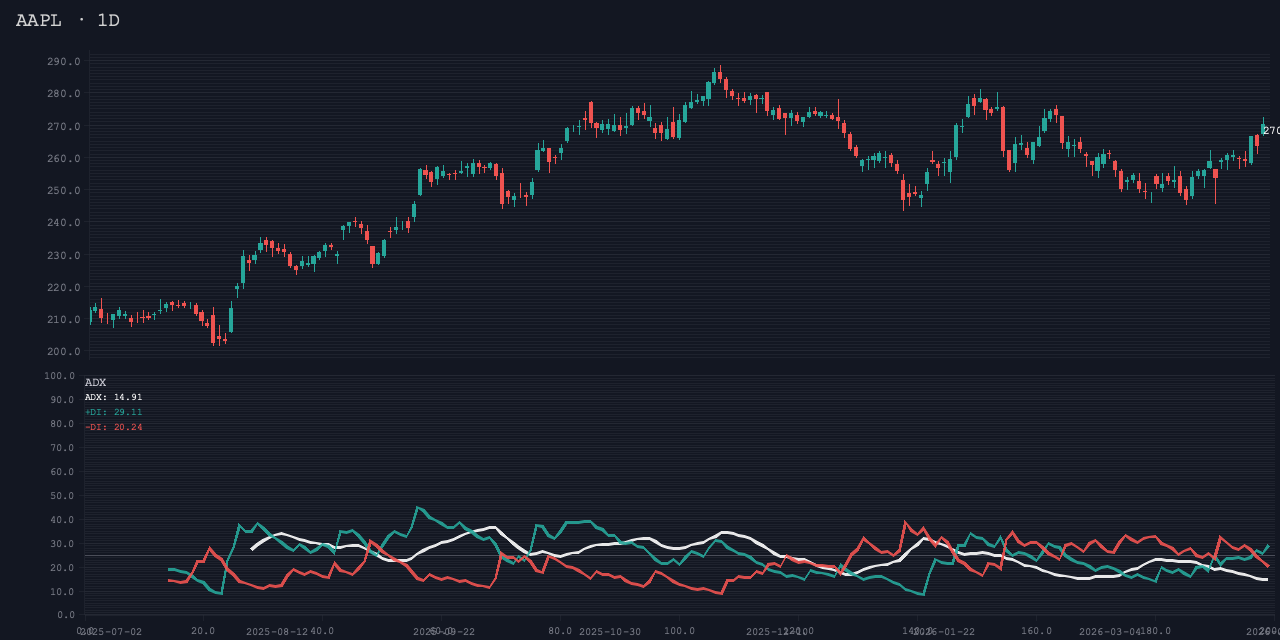
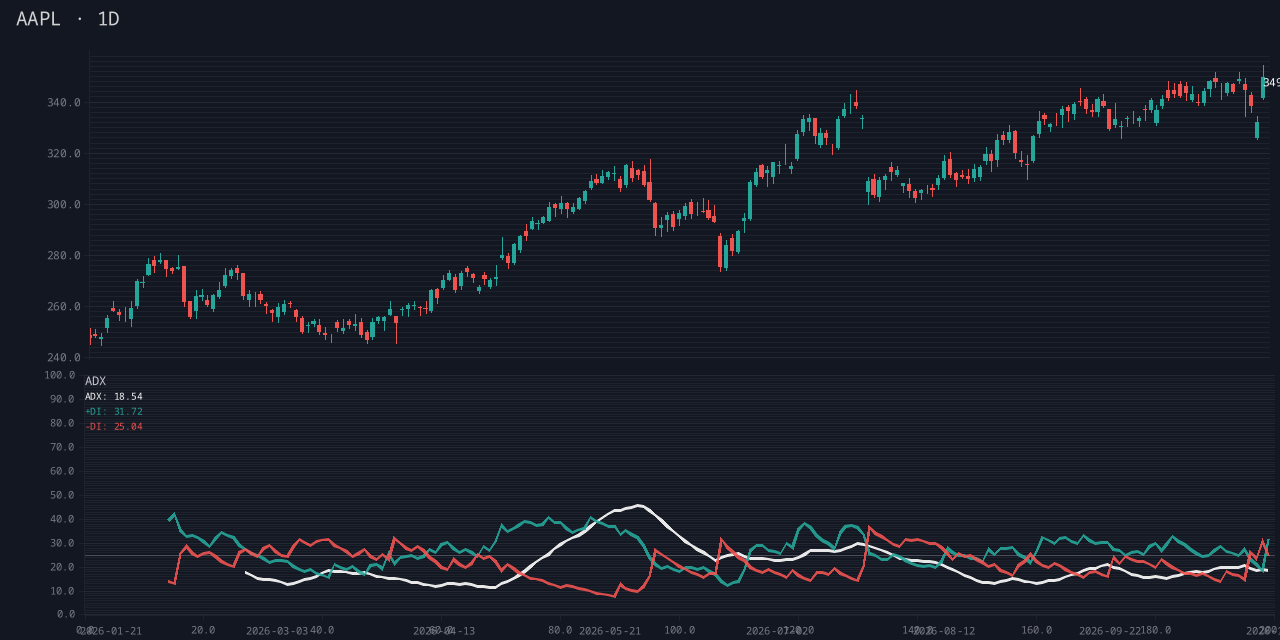
docs: ADR-0018 Pine semantics, TradingView parity note, screenshots
- ADR-0018 (MADR 3.0): Pine v5 is the reference, the NaN rule, the
  `ta` crate is dropped, values change for existing users.
- Indicator reference: "Values match TradingView" section with the
  remaining known differences (generated by gen_docs).
- Regenerated screenshots for every indicator whose values changed;
  kalman_volume renders 500 bars since it needs ~280 bars of warmup.
- README: pine.rs / ta_bridge.rs descriptions.

diff --git a/examples/gen_docs.rs b/examples/gen_docs.rs
@@ -46,6 +46,40 @@ fn main() {
          the `generate_chart` MCP tool's `indicators` parameter. Screenshots are\n\
          rendered from `AAPL` daily data (overlays and panels) and `BTCUSDT` daily\n\
          data (external) — regenerate with `./scripts/gen_screenshots.sh`.\n\
+         \n\
+         ## Values match TradingView\n\
+         \n\
+         Indicator math follows Pine Script v5 semantics, implemented once in\n\
+         `src/indicators/pine.rs` ([ADR-0018](/chartgen/decisions/0018-pine-semantics-for-indicators/)).\n\
+         `ta.ema` and `ta.rma` seed with the SMA of the first `length` values. RSI, ATR\n\
+         and DMI/ADX use Wilder's RMA. Bollinger Bands use the population standard\n\
+         deviation. Bars before an indicator has a full window are `null` (NaN), not\n\
+         partial values. With the same parameters and the same first bar, the values\n\
+         equal TradingView's built-ins. The community composites (`cipher_b`,\n\
+         `wavetrend`, `rsi_mfi_stoch`, `kalman_volume`) follow the Pine semantics of\n\
+         the `ta.*` calls in the scripts they port.\n\
+         \n\
+         EMA and RMA are recursive, so a value depends on where the series starts.\n\
+         Load enough history before the bars you compare (`warmup` in series mode)\n\
+         so the start-up effect has decayed. Known differences:\n\
+         \n\
+         - **Defaults.** Some defaults differ from TradingView's: `keltner` uses 20 / 1.5\n\
+         \x20 with the ATR length equal to `period` (TV: multiplier 2, ATR length 10);\n\
+         \x20 `stoch` smooths %K over 3 bars (TV: 1); `roc` uses 14 (TV: 9); `histvol` uses\n\
+         \x20 20 (TV: 10); `vwap_bands` uses 2 standard deviations (TV: 1); `wavetrend`\n\
+         \x20 uses the Cipher B lengths 9 / 12 / 3 (LazyBear: 10 / 21 / 4). Set the same\n\
+         \x20 parameters on both sides to compare.\n\
+         - **Anchoring.** `vwap` and `vwap_bands` accumulate from the first loaded bar\n\
+         \x20 (TV resets every session). `pivot` uses the previous bar (TV uses the\n\
+         \x20 previous higher-timeframe period).\n\
+         - **Ichimoku.** The leading spans are shifted 25 bars forward like TV's, but\n\
+         \x20 the 25 projected future bars are not drawn, and there is no lagging span.\n\
+         - **Intrabar data.** The volume profiles (`volume_profile`, `session_vp`,\n\
+         \x20 `hvn_lvn`, `naked_poc`, `tpo`) and `cvd` spread each bar's volume over its\n\
+         \x20 range. TradingView builds them from lower-timeframe data, so they are\n\
+         \x20 approximations.\n\
+         - **Long warmups.** `kalman_volume` normalises by a 200-bar standard deviation\n\
+         \x20 and needs about 280 bars before its first value.\n\
          \n",
     );
 

diff --git a/website/src/content/docs/decisions/0018-pine-semantics-for-indicators.md b/website/src/content/docs/decisions/0018-pine-semantics-for-indicators.md
@@ -1,0 +1,116 @@
+---
+title: "0018 — Pine v5 semantics for indicator math"
+description: "Compute every built-in indicator with TradingView Pine Script v5 semantics from one helper module, and drop the ta crate."
+sidebar:
+  order: 18
+---
+
+**Status:** Accepted
+**Date:** 2026-11-05
+
+## Context and Problem Statement
+
+chartgen is used next to TradingView, and users compare the numbers. The
+original indicators were built on the [`ta`](https://crates.io/crates/ta)
+crate (0.5) and on small local helpers. Their seeding and smoothing differ
+from Pine Script v5, so values visibly disagree with TradingView:
+
+- `ta` EMAs seed with the first value and output from bar 0. `ta.ema` in
+  Pine seeds with the SMA of the first `length` values and is `na` before.
+- `ta`'s RSI smooths gains and losses with an EMA (alpha `2/(n+1)`) seeded
+  with 0.1. Pine's `ta.rsi` uses Wilder's RMA (alpha `1/n`). The gap lasts
+  for hundreds of bars.
+- `ta`'s ATR is an EMA of the true range, and Keltner, Supertrend and the
+  slow stochastic build on those EMAs. Pine uses `ta.rma` for ATR and
+  `ta.sma` for the stochastic.
+- `ta`'s SMA, Bollinger Bands, CCI and ROC emit partial-window values from
+  bar 0. Its CCI takes the mean deviation of the close instead of hlc3.
+- The local HMA rounded `sqrt(len)`, where `ta.hma` floors it. A local
+  stdev dropped NaNs. The ADX seeded its DX average one bar late.
+
+The TradingView-parity indicators added later (`trend.rs`,
+`oscillators.rs`) already use `src/indicators/pine.rs`, a shared module of
+Pine semantics. The built-ins did not, so the codebase had two
+conventions.
+
+## Decision Drivers
+
+- Values should equal TradingView's for the same parameters and history.
+- One implementation of each primitive (`ema`, `rma`, `stdev`, `atr`, ...)
+  so a fix lands everywhere.
+- Indicator output shape (lines, labels, colors, hlines, `y_range`) and the
+  MCP surface stay unchanged.
+- Fewer dependencies where the crate adds nothing.
+
+## Considered Options
+
+1. **Keep `ta` and patch around it** (pre-seed, mask warmup). Its RSI,
+   ATR and CCI formulas differ in kind, not only in seeding, so most
+   indicators would still need their own code.
+2. **Port every built-in onto `pine.rs` and drop `ta` (chosen).**
+3. **Another TA crate.** None we looked at documents Pine-compatible
+   seeding and `na` handling, and it would still be a second convention
+   next to `pine.rs`.
+
+## Decision Outcome
+
+Chosen option 2. Pine Script v5, as described in the Pine reference
+manual (including its "the same in Pine" reference implementations), is
+the specification. `src/indicators/pine.rs` is the single source of
+those semantics. `indicator::ema`, `sma`, `highest`, `lowest` and
+`stoch` remain as names for existing callers but delegate to it.
+
+**NaN rule (Pine `na`).** Warmup values are NaN (serialized as `null`),
+never 0 and never a partial window. Non-finite input counts as NaN.
+
+- The recursive smoothers (`ta.ema`, `ta.rma`) seed with the SMA of the
+  first `n` valid values. When an input is NaN, that bar's output is NaN,
+  the state is kept, and the recursion continues on the next valid bar.
+- Windowed helpers (`sma`, `sum`, `wma`, `stdev`, `dev`, `highest`,
+  `lowest`, ...) are NaN while any NaN is inside the window.
+- Division by zero is NaN. For example, a flat Williams %R or stochastic
+  is NaN, not 0. `ta.rsi` is the exception: as in Pine, it returns 100
+  when the average loss is 0 and 0 when the average gain is 0.
+- Where a script relies on Pine's `nz()` or on comparisons with `na`
+  being false, the port does the same. Examples: the Schaff Trend Cycle
+  in Cipher B, the Kalman filter state in KVF, and bar 0 of `ta.mfi`.
+
+**The `ta` crate is dropped.** No indicator uses it any more, so it is
+removed from `Cargo.toml`.
+
+**Composites.** Ports of community scripts (Cipher B, WaveTrend,
+RSI/MFI/Stoch, Kalman Volume Filter) use the same helpers for their
+`ta.ema` / `ta.sma` / `ta.rsi` / `ta.hma` / `ta.stdev` calls. Their own
+defaults and chartgen-specific signal filters, such as Cipher B's
+`strict` dot mode, are unchanged.
+
+Remaining known differences are listed on the
+[indicator reference](/chartgen/reference/indicators/#values-match-tradingview).
+They are defaults that differ from TradingView's, VWAP and pivot
+anchoring, Ichimoku's future projection, intrabar-based profiles, and
+long warmups.
+
+### Consequences
+
+- Good: built-in values equal TradingView's when both start from the same
+  bar with the same parameters. With enough history, the start-up effect
+  of the recursive smoothers decays, so a `warmup` in series mode
+  reproduces TradingView's visible values.
+- Good: one module and one set of unit tests, with hand-computed Pine
+  values, cover every primitive. The `ta` dependency is gone.
+- Bad, **values change for existing users**. Every ported indicator
+  returns different numbers, most visibly early in a series:
+  - Warmup bars are now `null`.
+  - RSI, ATR, ADX and Supertrend differ for a long time, because RMA
+    replaces EMA.
+  - The Stochastic %K/%D are SMA-smoothed.
+  - The historical-volatility annualization is `sqrt(365)` (TV) instead
+    of `sqrt(252)`.
+  - Ichimoku's leading spans are drawn 25 bars later.
+  - Parabolic SAR and Supertrend start the way `ta.sar` and
+    `ta.supertrend` do.
+  - Alerts and signals that read these values, such as RSI thresholds or
+    Cipher B dots, can fire on different bars. Saved alert thresholds
+    may need review.
+- Bad: short histories show less. An indicator needs a full window before
+  its first value. KVF, for example, needs about 280 bars.

diff --git a/website/src/content/docs/reference/indicators.md b/website/src/content/docs/reference/indicators.md
@@ -16,6 +16,40 @@ the `generate_chart` MCP tool's `indicators` parameter. Screenshots are
 rendered from `AAPL` daily data (overlays and panels) and `BTCUSDT` daily
 data (external) — regenerate with `./scripts/gen_screenshots.sh`.
 
+## Values match TradingView
+
+Indicator math follows Pine Script v5 semantics, implemented once in
+`src/indicators/pine.rs` ([ADR-0018](/chartgen/decisions/0018-pine-semantics-for-indicators/)).
+`ta.ema` and `ta.rma` seed with the SMA of the first `length` values. RSI, ATR
+and DMI/ADX use Wilder's RMA. Bollinger Bands use the population standard
+deviation. Bars before an indicator has a full window are `null` (NaN), not
+partial values. With the same parameters and the same first bar, the values
+equal TradingView's built-ins. The community composites (`cipher_b`,
+`wavetrend`, `rsi_mfi_stoch`, `kalman_volume`) follow the Pine semantics of
+the `ta.*` calls in the scripts they port.
+
+EMA and RMA are recursive, so a value depends on where the series starts.
+Load enough history before the bars you compare (`warmup` in series mode)
+so the start-up effect has decayed. Known differences:
+
+- **Defaults.** Some defaults differ from TradingView's: `keltner` uses 20 / 1.5
+  with the ATR length equal to `period` (TV: multiplier 2, ATR length 10);
+  `stoch` smooths %K over 3 bars (TV: 1); `roc` uses 14 (TV: 9); `histvol` uses
+  20 (TV: 10); `vwap_bands` uses 2 standard deviations (TV: 1); `wavetrend`
+  uses the Cipher B lengths 9 / 12 / 3 (LazyBear: 10 / 21 / 4). Set the same
+  parameters on both sides to compare.
+- **Anchoring.** `vwap` and `vwap_bands` accumulate from the first loaded bar
+  (TV resets every session). `pivot` uses the previous bar (TV uses the
+  previous higher-timeframe period).
+- **Ichimoku.** The leading spans are shifted 25 bars forward like TV's, but
+  the 25 projected future bars are not drawn, and there is no lagging span.
+- **Intrabar data.** The volume profiles (`volume_profile`, `session_vp`,
+  `hvn_lvn`, `naked_poc`, `tpo`) and `cvd` spread each bar's volume over its
+  range. TradingView builds them from lower-timeframe data, so they are
+  approximations.
+- **Long warmups.** `kalman_volume` normalises by a 200-bar standard deviation
+  and needs about 280 bars before its first value.
+
 ## Overlays
 
 ### Summary

diff --git a/README.md b/README.md
@@ -169,7 +169,8 @@ src/
 ├── mtf.rs               Multi-timeframe aggregation
 ├── indicators/
 │   ├── mod.rs           Registry (by_name, available, registry)
-│   ├── ta_bridge.rs     ta-rs wrappers
+│   ├── pine.rs          Pine v5 semantics helpers (ADR-0018)
+│   ├── ta_bridge.rs     classic built-ins (EMA, BB, KC, ATR, Stoch, ...)
 │   ├── custom.rs        custom indicators (incl. volume-profile family)
 │   ├── cipher_b.rs      Cipher B (Pine Script port)
 │   ├── external.rs      API-based indicators

diff --git a/website/src/content/docs/decisions/index.md b/website/src/content/docs/decisions/index.md
@@ -45,3 +45,4 @@ one and link both ways.
 | [0015](/chartgen/decisions/0015-named-layouts/) | Named chart layouts | Accepted | 2026-11-04 |
 | [0016](/chartgen/decisions/0016-light-theme/) | Light theme with a single TypeScript token source | Accepted | 2026-11-04 |
 | [0017](/chartgen/decisions/0017-indicator-plot-styles/) | Indicator plot styles | Accepted | 2026-11-05 |
+| [0018](/chartgen/decisions/0018-pine-semantics-for-indicators/) | Pine v5 semantics for indicator math | Accepted | 2026-11-05 |
